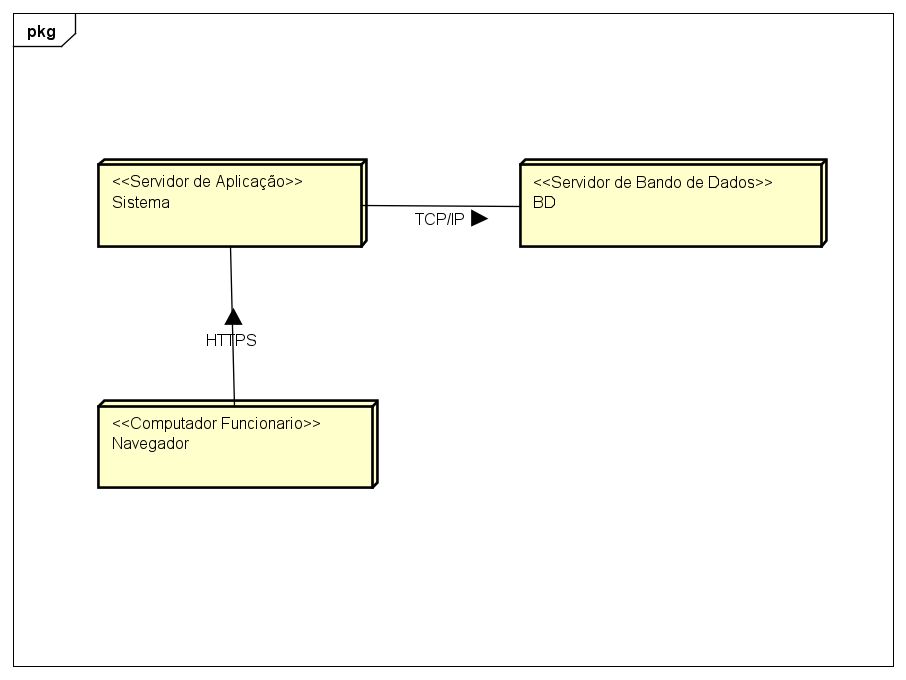
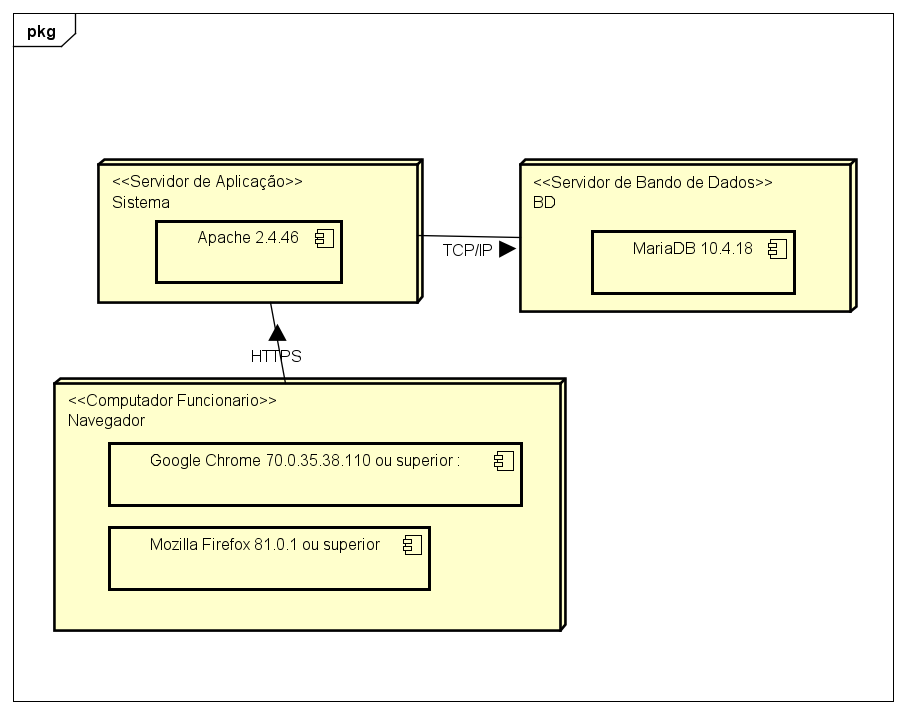
Diagrama de implantacao

Changed region(s): [[0.0309, 0.2162, 0.9581, 0.8956], [0.0309, 0.9574, 0.989, 0.9882], [0.0309, 0.0309, 0.0618, 0.0926]]

diff --git a/README.md b/README.md
@@ -6,13 +6,13 @@ Nagini é um site em que os funcionarios e os clientes poderão, se cadastrar, f
 
 **TECNOLOGIAS UTILIZADAS**
 
-PHP 7.4.9
+PHP 7.3.27
 
 HTML5 5.0
 
 Servidor - Apache 2.4.46
 
-Banco de dados - Mysql Workbench 8.0.21
+Banco de dados - MariaDB 10.4.18
 
 Teste - PHPUnit - 9.5.2
 
@@ -31,7 +31,7 @@ Programação:
 - Coloque um espaço após cada vírgula.
 - Identar o código.
 - Declare cada variável em uma linha para facilitar a escrita de comentários.
-- Comentar código.
+- Comentar código (com 4 espaços).
 - Nomear funções de maneira intuitiva.
 - Nomear variáveis de maneira intuitiva.
 - Teste os programas exaustivamente.
